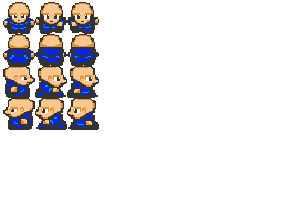
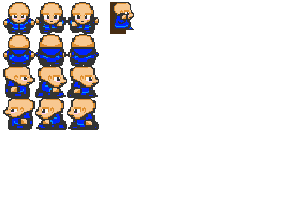
Added interactions with items
Press E near kos/skrinka/lavicka/dvere

Changed region(s): [[0.3673, 0.0, 0.4592, 0.1782]]

diff --git a/main.py b/main.py
@@ -19,7 +19,8 @@ class Game:
         self.screen = pygame.display.set_mode((WIN_WIDTH, WIN_HEIGHT))
         self.clock = pygame.time.Clock()
         self.running = True
-        self.font = pygame.font.Font("Roboto.ttf", 32)
+        self.big_font = pygame.font.Font("Roboto.ttf", 32)
+        self.font = pygame.font.Font("Roboto.ttf", 22)
 
         self.character_spritesheet = Spritesheet("img/character.png")
         self.terrain_spritesheet = Spritesheet("img/terrain.png")
@@ -29,28 +30,47 @@ class Game:
         self.intro_background = pygame.image.load("img/introbackground.png")
         self.game_over_background = pygame.image.load("img/game_over_background.png")
 
-        self.rooms = [satna, chodba_0, "chodba_1", "chodba_2", "chodba_3", "chodba_4"] # skolske poschodia a mmozne roomky do ktorych moze hrac vojst
+        self.rooms = [satna, chodba_0, "chodba_1", "chodba_2", "chodba_3", "chodba_4"] # skolske poschodia a mozne roomky do ktorych moze hrac vojst
         self.in_room = self.rooms[0] # hrac v danej roomke
+
+        # Inventory
+        self.inv = []
+
+        # Objects you can interact with
+        self.interacted = ""
+        self.interactive = {}
     
+        # Variables for finding items/doing stuff
+        self.kluc_v_kosi = True
+        self.zamknuta_skrinka = True
+        self.zamknuta_satna = True
+
+        self.x_hop = 0
+        self.y_hop = 0
+
     def create_tile_map(self):
         """
         Creates tile map
         """
+
+        self.interactive = {}
+
+        for sprite in self.all_sprites: sprite.kill()
 
         for i, row in enumerate(self.in_room):
             for j, column in enumerate(row):
                 Ground(self, j, i)
                 if column == "_": Blockade(self, j, i) # Black
                 elif column == "W": Block(self, j, i, "W") # Basic wall
-                elif column == "S": Block(self, j, i, "S") # Skrinka
+                elif column == "S": self.interactive[Block(self, j, i, "S")] = "S" + str(i) + str(j) # Skrinka
                 elif column == "O": Block(self, j, i, "O") # Okno
-                elif column == "D": Block(self, j, i, "D") # Dvere
-                elif column == "L": Block(self, j, i, "L") # Lavicka
-                elif column == "T": Block(self, j, i, "T") # Trashcan
+                elif column == "D": self.interactive[Block(self, j, i, "D")] = "D" + str(i) + str(j) # Dvere
+                elif column == "L": self.interactive[Block(self, j, i, "L")] = "L" + str(i) + str(j) # Lavicka
+                elif column == "T": self.interactive[Block(self, j, i, "T")] = "K" + str(i) + str(j) # Trashcan
                 elif column == "P": self.player = Player(self, j, i) # Player
                 elif column == "N": Npc(self, j, i) # NPC
         
-        return (self.player.x, self.player.y)
+        #return (self.player.x, self.player.y)
                 
 
     def new(self):
@@ -70,7 +90,8 @@ class Game:
         self.interactible = pygame.sprite.LayeredUpdates()
 
         # Tilemap
-        self.player_pos = self.create_tile_map()
+        #self.player_pos = 
+        self.create_tile_map()
         
     # def check_active_scene_change(self, scene: str):
         # "satna", "chodba_0", "chodba_1", "chodba_2", "chodba_3", "chodba_4"
@@ -112,12 +133,18 @@ class Game:
 
             elif event.type == pygame.KEYDOWN and event.key == pygame.K_e: 
                 match self.player.facing:
-                    case "up": Interact(self, self.player.rect.x, self.player.rect.y - TILE_SIZE) 
-                    case "down": Interact(self, self.player.rect.x, self.player.rect.y + TILE_SIZE)
-                    case "left": Interact(self, self.player.rect.x - TILE_SIZE, self.player.rect.y)
-                    case "right": Interact(self, self.player.rect.x + TILE_SIZE, self.player.rect.y) 
+                    case "up": Interact(self, self.player.rect.x, self.player.rect.y - TILE_SIZE, self.interactive)
+                    case "down": Interact(self, self.player.rect.x, self.player.rect.y + TILE_SIZE, self.interactive)
+                    case "left": Interact(self, self.player.rect.x - TILE_SIZE, self.player.rect.y, self.interactive)
+                    case "right": Interact(self, self.player.rect.x + TILE_SIZE, self.player.rect.y, self.interactive) 
                 
             # print(f"x:{self.player_pos[0]}, y:{self.player_pos[1]}")
+
+                match self.interacted.capitalize():
+                    case "Kos": self.hrabanie_v_kosi()
+                    case "Dvere": self.dvere()
+                    case "Skrinka": self.skrinka()
+                    case "Lavicka": self.lavicka()
 
 
     def update(self):
@@ -144,7 +171,7 @@ class Game:
         """
 
         # Creates text
-        text = self.font.render("Game Over", True, BLACK)
+        text = self.big_font.render("Game Over", True, BLACK)
         text_rect = text.get_rect(center = (75, 50))
 
         # Creates button
@@ -183,7 +210,7 @@ class Game:
         intro = True
 
         # Title
-        title = self.font.render("SPSE ADVENTURE", True, BLACK)
+        title = self.big_font.render("SPSE ADVENTURE", True, BLACK)
         title_rect = title.get_rect(x=10, y=10)
 
         # Start button
@@ -211,6 +238,83 @@ class Game:
             self.screen.blit(play_button.image, play_button.rect)
             self.clock.tick(FPS)
             pygame.display.update()
+
+    def talking(self, content):
+        """
+        When character is talking
+        """
+
+        for _ in range(150):
+            text = self.font.render(content, True, WHITE)
+            text_rect = text.get_rect(x=10, y=10)
+            self.screen.blit(text, text_rect)
+            self.clock.tick(FPS)
+            pygame.display.update()
+        self.update()
+        self.draw()
+
+    def hrabanie_v_kosi(self):
+        """
+        Hrabanie v kosi
+        """
+
+        if self.in_room == satna:
+            self.talking("There's paper on the side of the trashcan.")
+            self.talking("It says 2.SA. You agree with this statement.")
+            if self.kluc_v_kosi: 
+                self.inv.append("kluc od skrinky")
+                self.kluc_v_kosi = False 
+                self.talking("You found a key in the trashcan. It says AR.")
+            else: self.talking("There is nothing interesting.")
+
+    def skrinka(self):
+        """
+        Odomknutie skrinky
+        Hladnie v skrinke
+        """
+
+        if self.in_room == satna:
+            if self.interacted == "SKRINKA":
+                if self.zamknuta_skrinka:
+                    if "kluc od skrinky" in self.inv:
+                        self.talking("I unlocked the locker.")
+                        self.zamknuta_skrinka = False
+                    else: self.talking("Locked locker.")
+                else: 
+                    self.inv.append("kluc od satne")
+                    self.talking("There's a key. It seems to be the key from this room.")
+            else: 
+                if "kluc od skrinky" in self.inv: self.talking("Wrong locker.")
+                else: self.talking("Locked locker.")
+
+    def lavicka(self):
+        """
+        Sadnut si na lavicku
+        """
+
+        self.player.sit(True, self.x_hop, self.y_hop)
+        self.update()
+        self.draw()
+        self.talking("You sit on a bench.")
+        self.talking("Sitting is really interesting.")
+        self.talking("You enjoyed this sitting session.")
+        self.talking("But now it's time to continue your journey.")
+        self.player.sit(False, self.x_hop, self.y_hop)
+
+    def dvere(self):
+        """
+        Odomknutie/prejdenie dverami
+        """
+
+        if self.in_room == satna:
+            if self.zamknuta_satna:
+                if "kluc od satne" in self.inv: 
+                    self.talking("I unlocked the door.")
+                    self.zamknuta_satna = False
+                else: self.talking("I need to find key to unlock the door.")
+            else: 
+                self.in_room = self.rooms[1]
+                self.create_tile_map()
 
 
 g = Game()

diff --git a/sprites.py b/sprites.py
@@ -1,5 +1,4 @@
-from msilib.schema import ControlEvent
-from re import S
+# Imports
 import pygame, math, random as r
 from config import *
 
@@ -54,6 +53,7 @@ class Player(pygame.sprite.Sprite):
 
         self.image = self.game.character_spritesheet.get_sprite(3, 2, self.width, self.height)
 
+        self.player_sitting = False
 
         self.rect = self.image.get_rect()
         self.rect.x = self.x
@@ -104,8 +104,16 @@ class Player(pygame.sprite.Sprite):
         self.collide_blocks("y")
         self.collide_npc("y")
         
-        self.x_change = 0
-        self.y_change = 0
+        # Sitting
+        if self.player_sitting:
+            self.rect.x = self.x_change
+            self.rect.y = self.y_change
+            self.image = self.game.character_spritesheet.get_sprite(102, 2, self.width, self.height)
+
+        # Not sitting
+        else: 
+            self.x_change = 0
+            self.y_change = 0
 
     def movement(self):
         """
@@ -240,6 +248,31 @@ class Player(pygame.sprite.Sprite):
                 self.image = self.facing_right[math.floor(self.animation_loop)]
                 self.animation_loop += 0.1
                 if self.animation_loop >= 3: self.animation_loop = 1
+
+    def sit(self, sit, x, y):
+        """
+        Player sits on bench
+        """
+
+        if sit: 
+            self.player_sitting = True
+            self.y_change = y
+            self.x_change = x
+        elif not sit: 
+            self.x_change = self.y_change = 0
+            if self.facing == "up": 
+                for sprite in self.game.all_sprites: sprite.rect.y += PLAYER_SPEED
+                self.y_change += TILE_SIZE
+            elif self.facing == "down": 
+                for sprite in self.game.all_sprites: sprite.rect.y -= PLAYER_SPEED
+                self.y_change -= TILE_SIZE
+            elif self.facing == "left": 
+                for sprite in self.game.all_sprites: sprite.rect.x += PLAYER_SPEED
+                self.x_change += TILE_SIZE
+            elif self.facing == "right": 
+                for sprite in self.game.all_sprites: sprite.rect.x -= PLAYER_SPEED
+                self.x_change -= TILE_SIZE
+            self.player_sitting = False
 
 class Npc(pygame.sprite.Sprite):
     """
@@ -544,10 +577,13 @@ class Interact(pygame.sprite.Sprite):
     Class for intracting
     """
 
-    def __init__(self, game, x: int, y: int):
+    def __init__(self, game, x: int, y: int, inter: dict):
         """
         Initialization
         """
+
+        # Dictionary
+        self.interactive = inter
 
         # Game
         self.game = game
@@ -575,9 +611,20 @@ class Interact(pygame.sprite.Sprite):
         """
 
         hits = pygame.sprite.spritecollide(self, self.game.interactible, False)
-
-        if hits: print("Hello world!")
-
+        
+        if hits: 
+            for i, row in enumerate(self.game.in_room):
+                for j, column in enumerate(row):
+                    if self.interactive[hits[0]] == "K" + str(i) + str(j): self.game.interacted = "Kos"
+                    elif self.interactive[hits[0]] == "D" + str(i) + str(j): self.game.interacted = "Dvere"
+                    elif self.interactive[hits[0]] == "S" + str(i) + str(j): 
+                        if i == 8 and j == 13: self.game.interacted = "SKRINKA"
+                        else: self.game.interacted = "Skrinka"
+                    elif self.interactive[hits[0]] == "L" + str(i) + str(j): 
+                        self.game.x_hop = hits[0].rect.left
+                        self.game.y_hop = hits[0].rect.top
+                        self.game.interacted = "Lavicka"
+                    
 class Button:
     """
     Class for button
